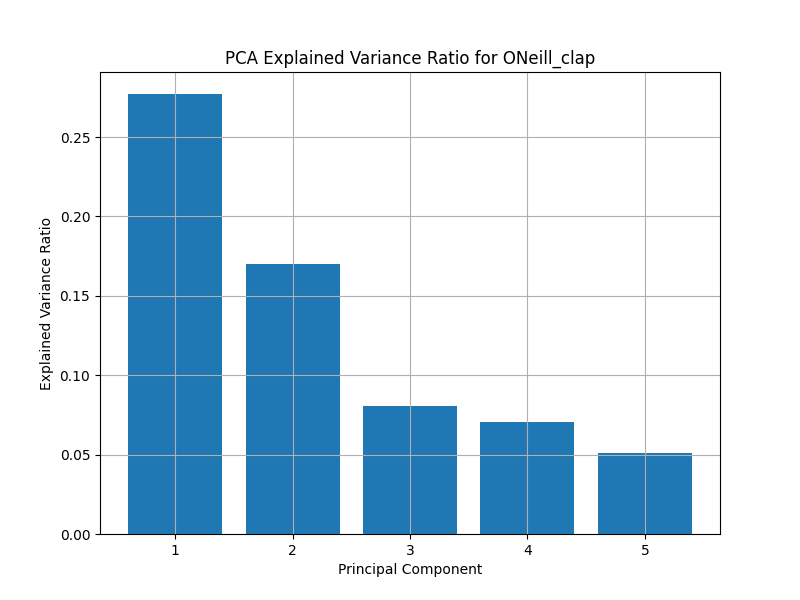
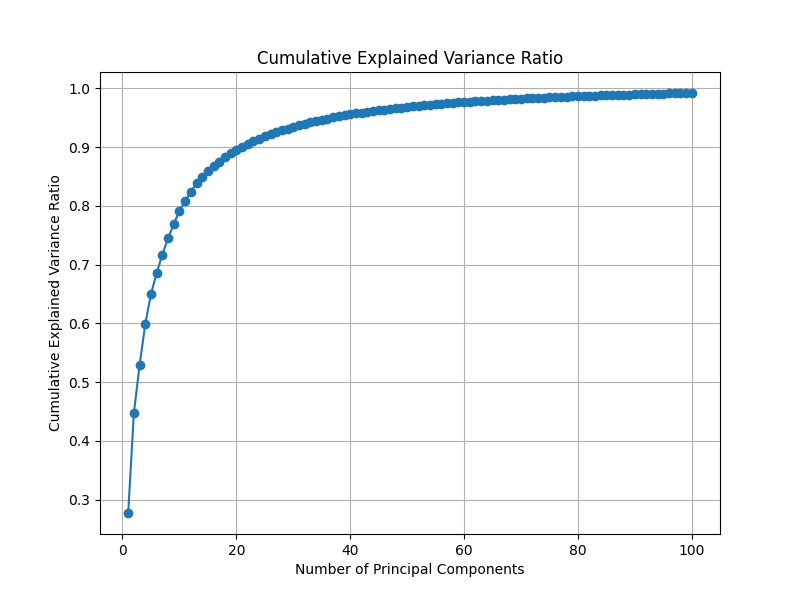
pca variance cumulative plot

diff --git a/main.py b/main.py
@@ -279,11 +279,12 @@ if __name__ == "__main__":
         plotting.plot_embeddings_pca(data, "ONeill", embedding)
 
         plotting.plot_pca_pairs(data, "ONeill", embedding)
-        plotting.plot_pca_variance(data, "ONeill", embedding)
+        plotting.plot_pca_variance(data, "ONeill", embedding, components=100)
 
 
 
         for m in methods:
+            break
             plotting.plot_distance_average(data, "ONeill", "ONeill", embedding, method=m)
             plotting.plot_distance_average(data, ["ONeill", "output"], ["ONeill", "output"], embedding, method=m)
             plotting.plot_distance_average(data, "ONeill", "output", embedding, method=m)
@@ -292,15 +293,15 @@ if __name__ == "__main__":
 
 
         e_out = random.choice(data["output"]["embed"][embedding])
-        out_dists = compute_dist(e_out, data["ONeill"]["embed"][embedding], methods = methods)
-        out_dists_full = compute_dist(e_out, data["ONeill"]["embed"][embedding] + data["output"]["embed"][embedding], methods = methods)
+        #out_dists = compute_dist(e_out, data["ONeill"]["embed"][embedding], methods = methods)
+        #out_dists_full = compute_dist(e_out, data["ONeill"]["embed"][embedding] + data["output"]["embed"][embedding], methods = methods)
 
 
 
 
-        for m in out_dists.keys():
-            plotting.plot_distance_distribution(out_dists[m], embedding+"_"+m)
-            plotting.plot_distance_distribution(out_dists_full[m], embedding+"_full_"+m)
+        #for m in out_dists.keys():
+        #    plotting.plot_distance_distribution(out_dists[m], embedding+"_"+m)
+        #    plotting.plot_distance_distribution(out_dists_full[m], embedding+"_full_"+m)
         
         
     

diff --git a/plotting.py b/plotting.py
@@ -87,7 +87,7 @@ def plot_embeddings_pca(data, labels = "ONeill", embedding = "clamp", name=None,
 
 def plot_pca_variance(data, labels = "ONeill", embedding = "clamp", name=None, components=5):
     """
-    Generates a bar plot of the explained variance ratio of the PCA components and saves it as a PNG file.
+    Generates a plot of the explained variance ratio of the first PCA components and saves it as a PNG file.
         
     Args:
         data (dict): A dictionary containing the data to be plotted.
@@ -111,12 +111,19 @@ def plot_pca_variance(data, labels = "ONeill", embedding = "clamp", name=None, c
     pca = PCA(n_components=components)
     pca.fit(embeddings)
 
+    acc = 0
+    var_sums = []
+    for var in pca.explained_variance_ratio_:
+        acc += var
+        var_sums.append(acc)
+    
+    
     plt.clf()
     plt.figure(figsize=(8, 6))
-    plt.bar(range(1, 6), pca.explained_variance_ratio_)
-    plt.title(f"PCA Explained Variance Ratio for {name}")
-    plt.xlabel('Principal Component')
-    plt.ylabel('Explained Variance Ratio')
+    plt.plot(range(1, components+1), var_sums, marker='o')
+    plt.title(f"Cumulative Explained Variance Ratio")
+    plt.xlabel('Number of Principal Components')
+    plt.ylabel('Cumulative Explained Variance Ratio')
     plt.grid()
     plt.savefig(f"plots/pca_variance_{name}.png")
 
